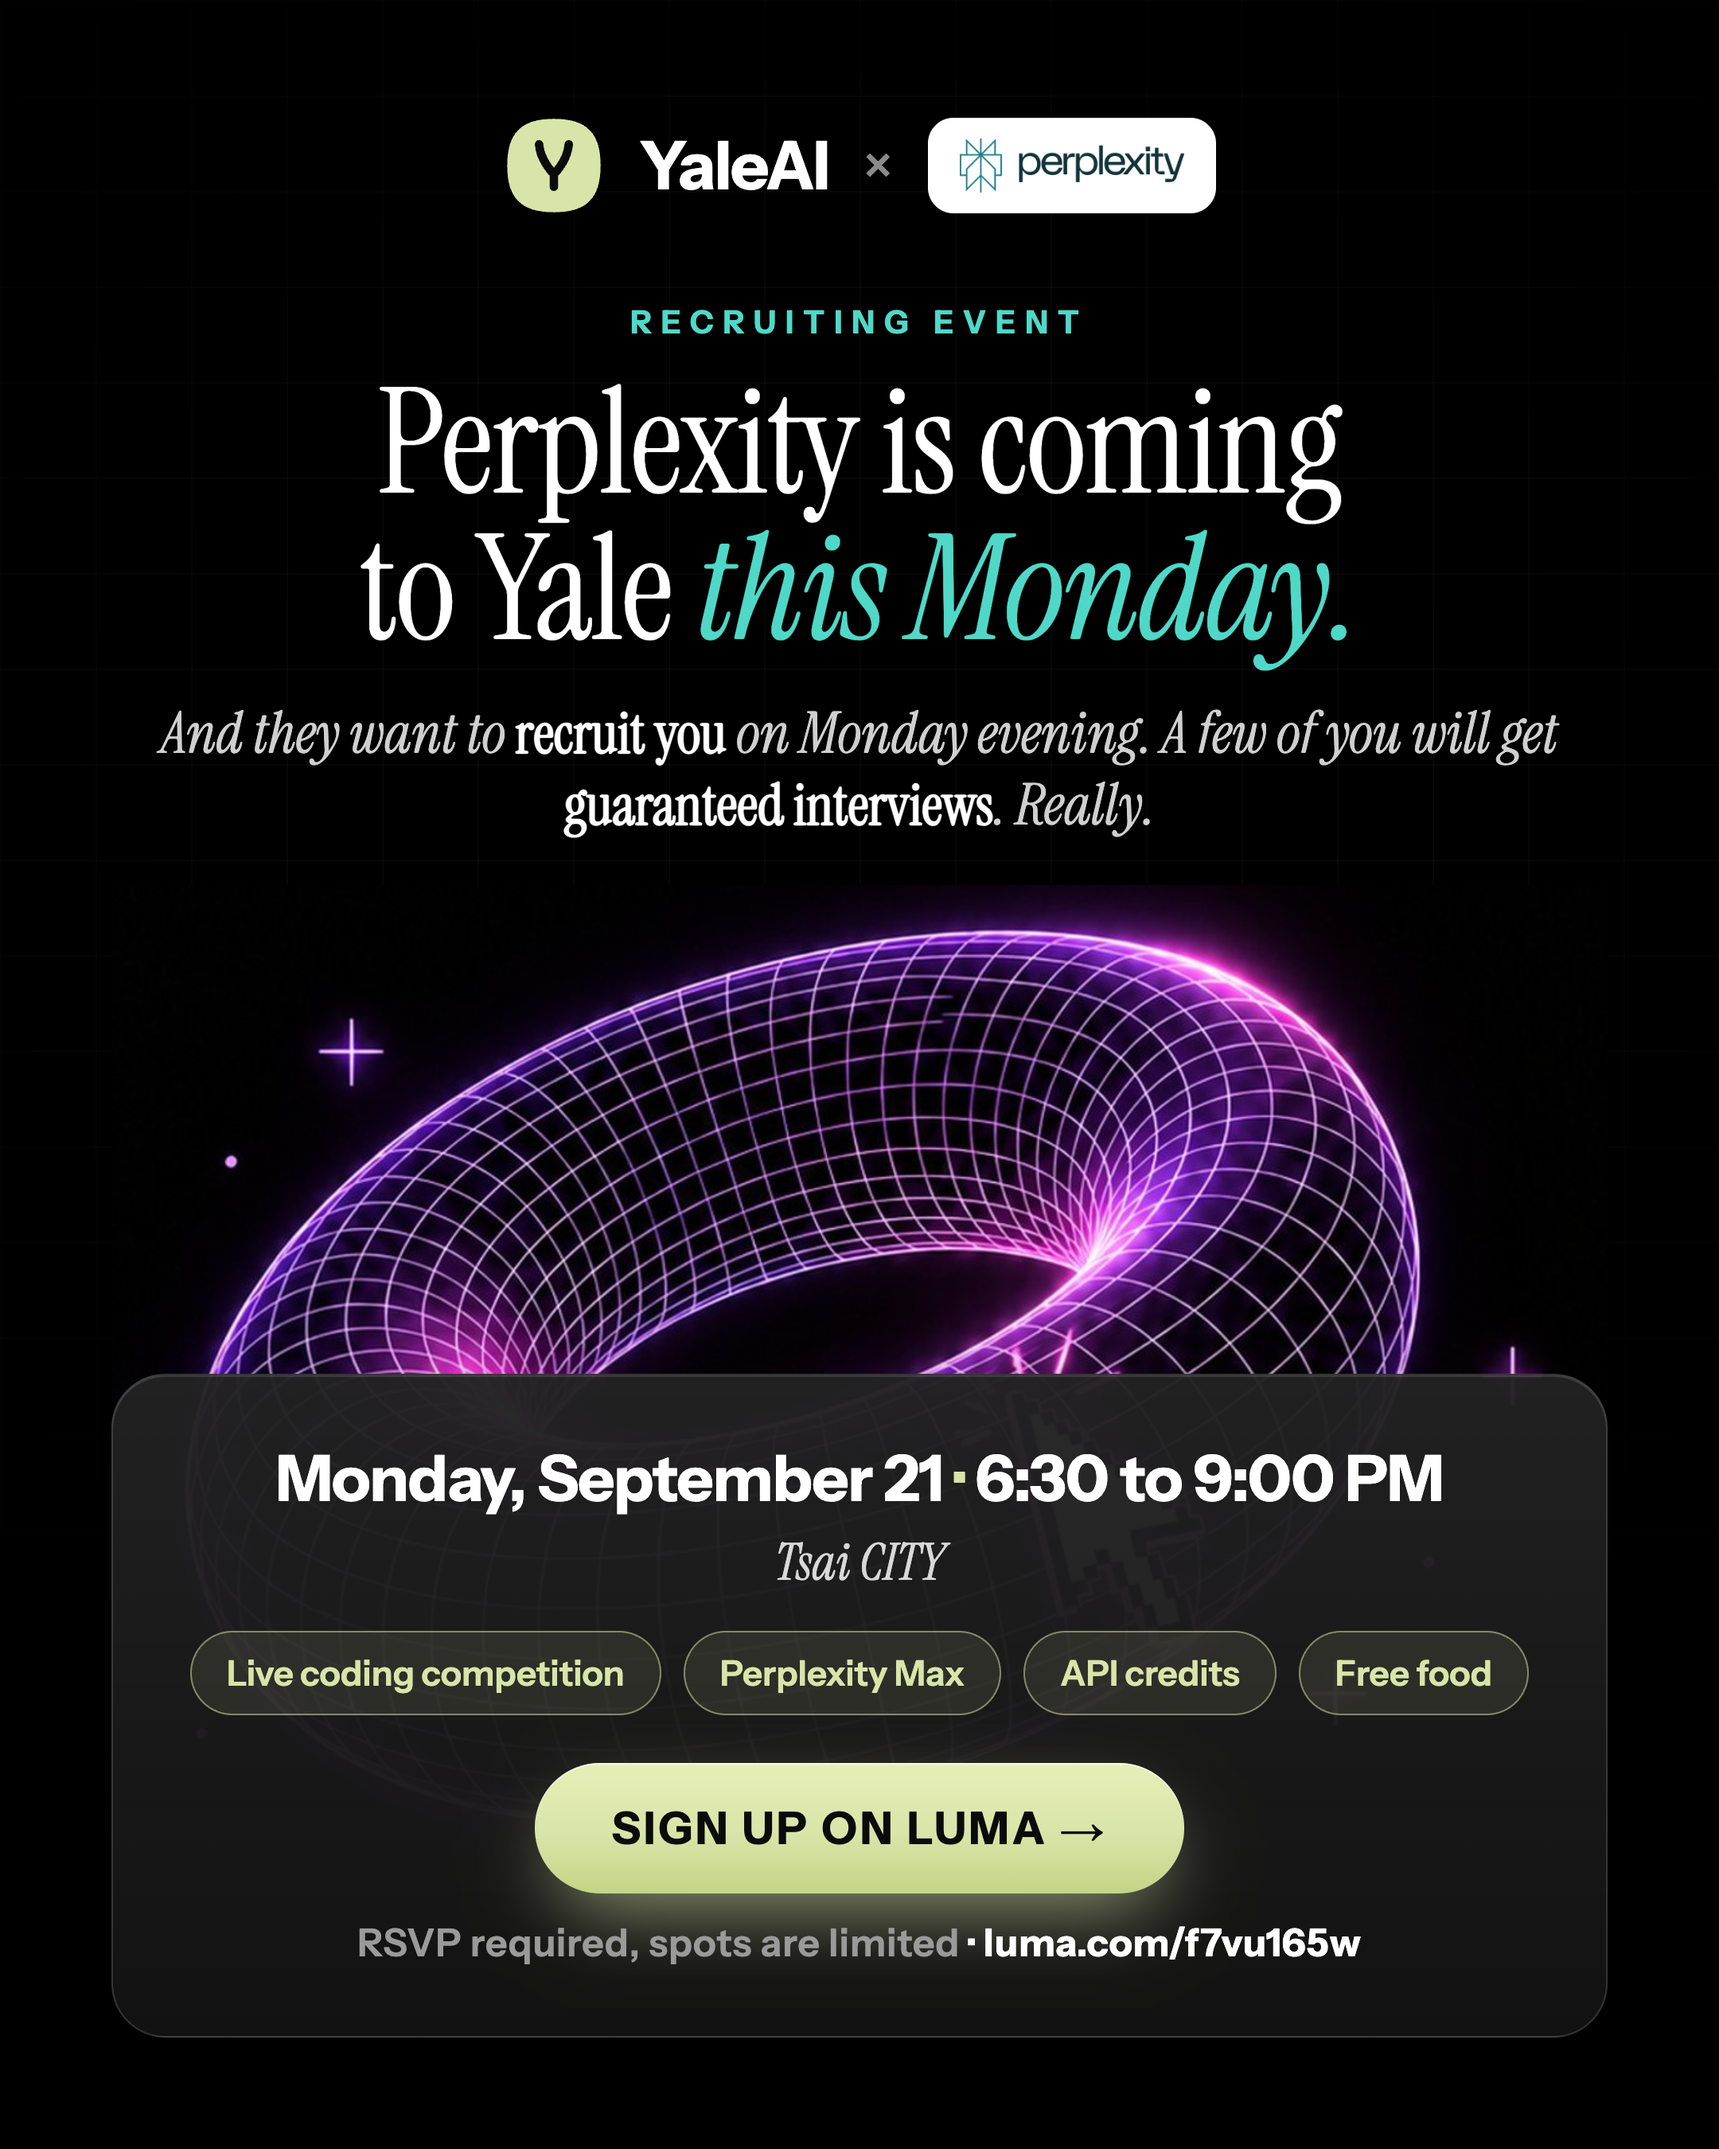
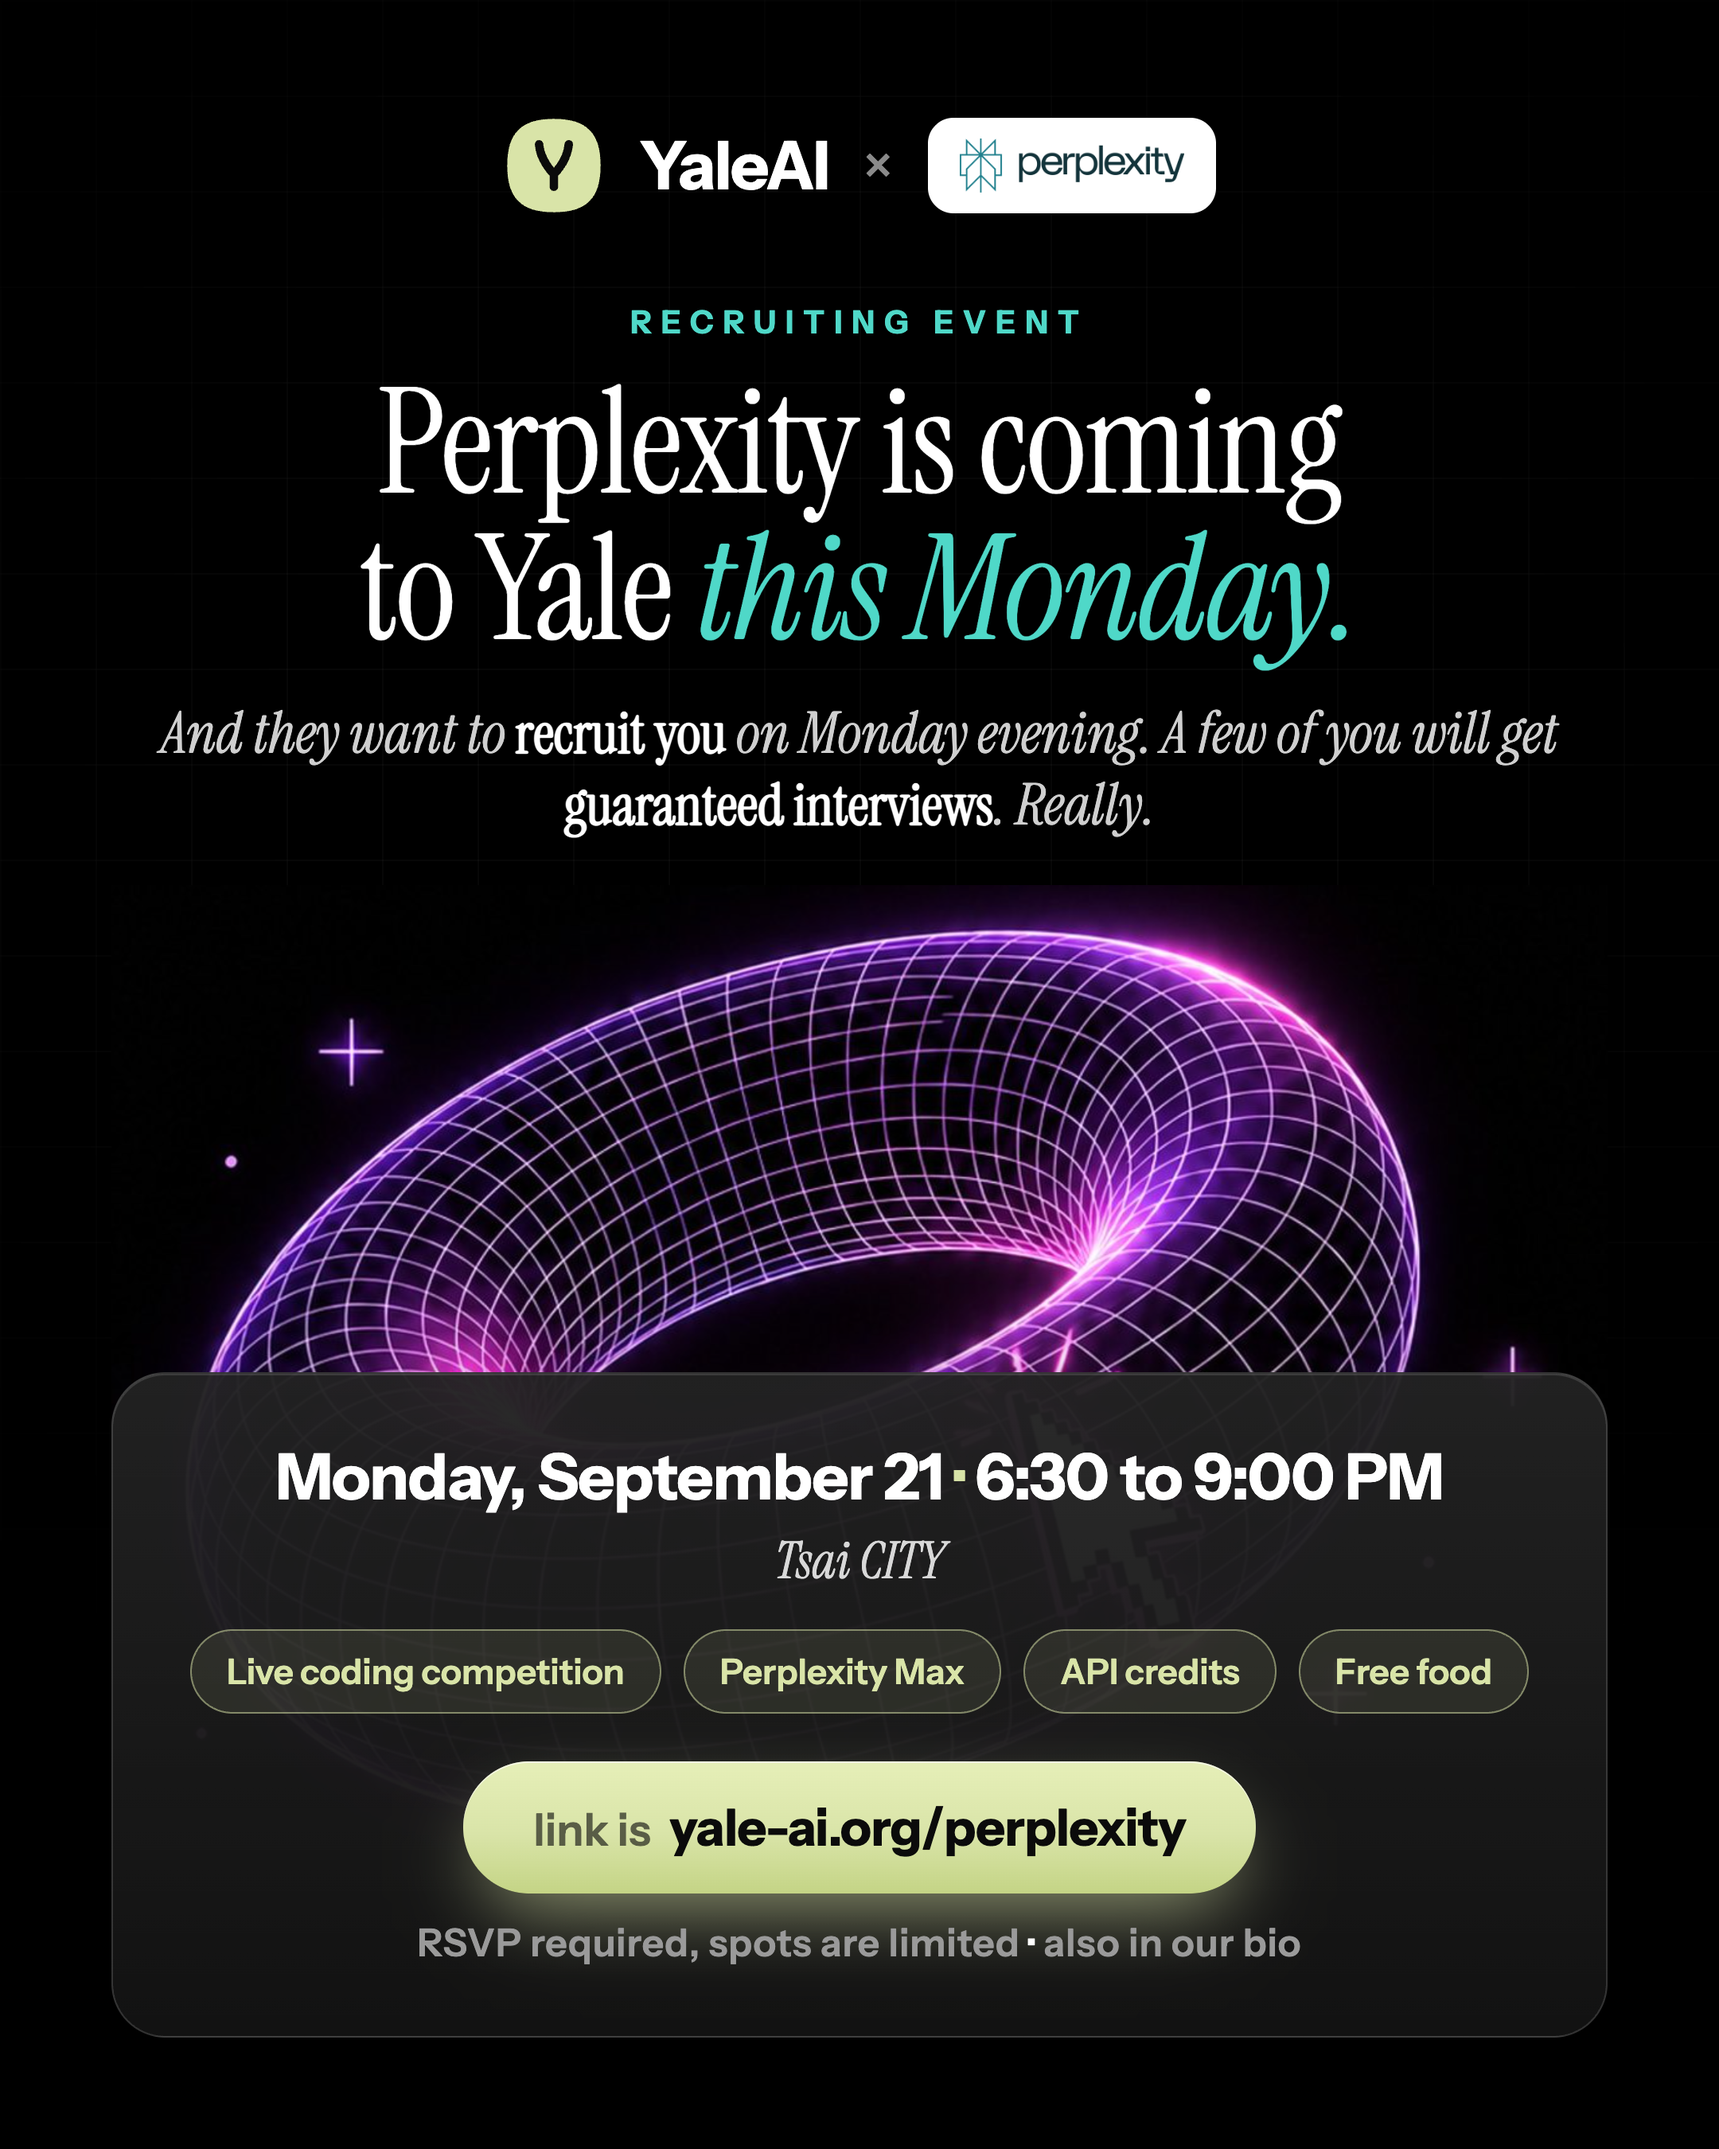
marketing: Perplexity Instagram post prints yale-ai.org/perplexity instead of a button
Claude-Session: https://claude.ai/code/session_017dgDbJT8JhVYmBi1QsWX9G

diff --git a/marketing/campaigns/perplexity-2026-09-21/instagram.html b/marketing/campaigns/perplexity-2026-09-21/instagram.html
@@ -32,8 +32,11 @@
   .where { margin-top:8px; font-family:var(--serif); font-style:italic; font-size:32px; color:#d8d8d8; }
   .perks { margin-top:22px; display:flex; justify-content:center; gap:14px; flex-wrap:wrap; }
   .perk { border-radius:999px; border:1px solid rgba(217,228,168,.5); background:rgba(217,228,168,.1); padding:12px 22px; font-weight:600; font-size:22px; color:var(--lime); }
-  .pill { margin-top:30px; display:inline-flex; align-items:center; gap:14px; border-radius:999px; padding:24px 48px; color:#0b0b0b; font-weight:700; font-size:28px; letter-spacing:2px; text-transform:uppercase;
+  /* Instagram images are not clickable, so this is a URL to type, not a button: no arrow, no caps. */
+  .pill { margin-top:30px; display:inline-flex; align-items:baseline; gap:12px; border-radius:999px; padding:22px 44px; color:#0b0b0b; font-weight:600; font-size:28px;
     background:linear-gradient(180deg, #e6efb8, #d9e4a8 55%, #c4d485); box-shadow:0 20px 50px -14px rgba(217,228,168,.7), inset 0 1px 0 rgba(255,255,255,.6); }
+  .pill span { opacity:.62; }
+  .pill b { font-weight:700; font-size:32px; letter-spacing:-.3px; }
   .link { margin-top:16px; font-weight:600; font-size:24px; color:#9a9a9a; letter-spacing:.5px; }
   .link b { color:#fff; }
 </style></head>
@@ -61,8 +64,8 @@
       <div class="perk">API credits</div>
       <div class="perk">Free food</div>
     </div>
-    <div class="pill">Sign up on Luma &rarr;</div>
-    <div class="link">RSVP required, spots are limited <b>&middot;</b> <b>luma.com/f7vu165w</b></div>
+    <div class="pill"><span>link is</span> <b>yale-ai.org/perplexity</b></div>
+    <div class="link">RSVP required, spots are limited <b>&middot;</b> also in our bio</div>
   </div>
 </div>
 </body></html>
